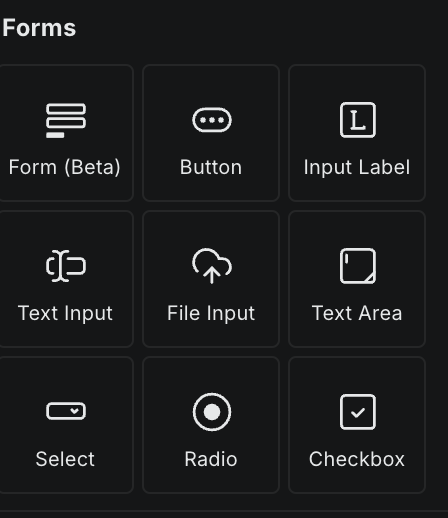
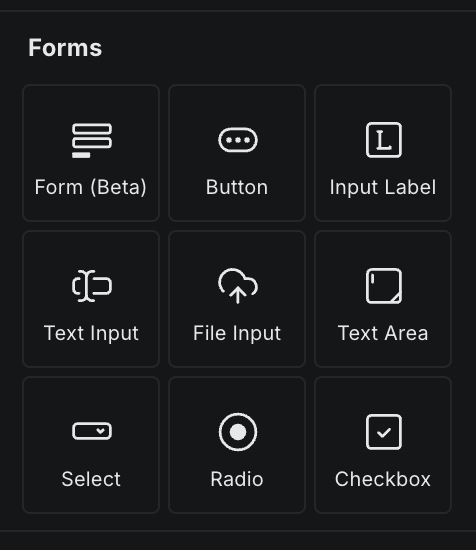
Include full Form component card borders

diff --git a/docs/university/core-components/form.md b/docs/university/core-components/form.md
@@ -37,7 +37,7 @@ Add fields inside the Form from **Components > Forms**. Each field needs a **Nam
 <figure>
   <picture>
     <source media="(prefers-color-scheme: dark)" srcset="../../.gitbook/assets/form-components-dark.png">
-    <img src="../../.gitbook/assets/form-components-light.png" alt="Forms section in the Components panel, with Form (Beta), Button, Input Label, Text Input, File Input, Text Area, Select, Radio, and Checkbox." width="224">
+    <img src="../../.gitbook/assets/form-components-light.png" alt="Forms section in the Components panel, with Form (Beta), Button, Input Label, Text Input, File Input, Text Area, Select, Radio, and Checkbox." width="238">
   </picture>
 </figure>
 
